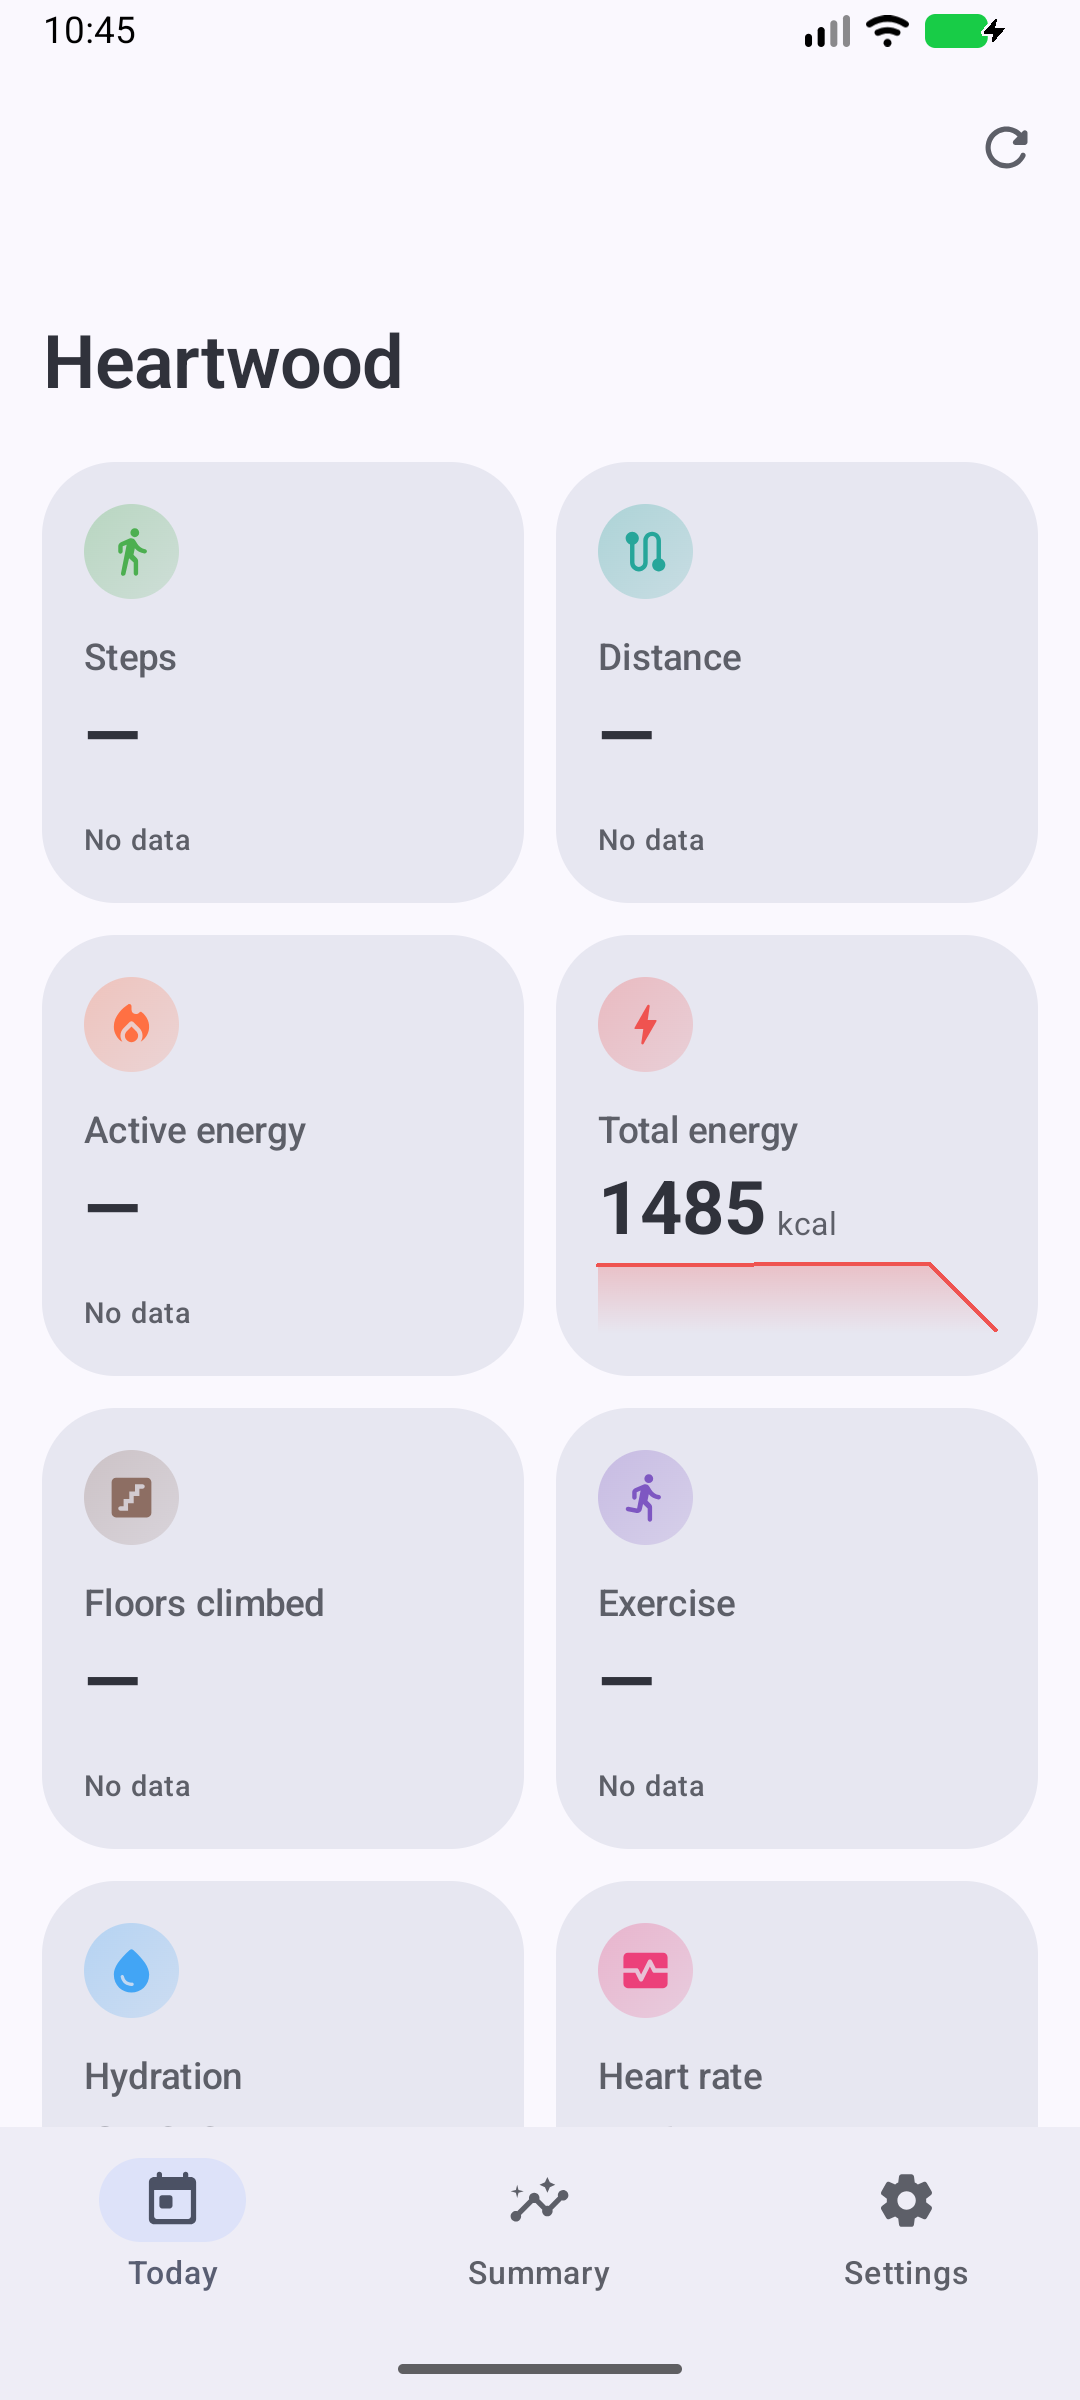
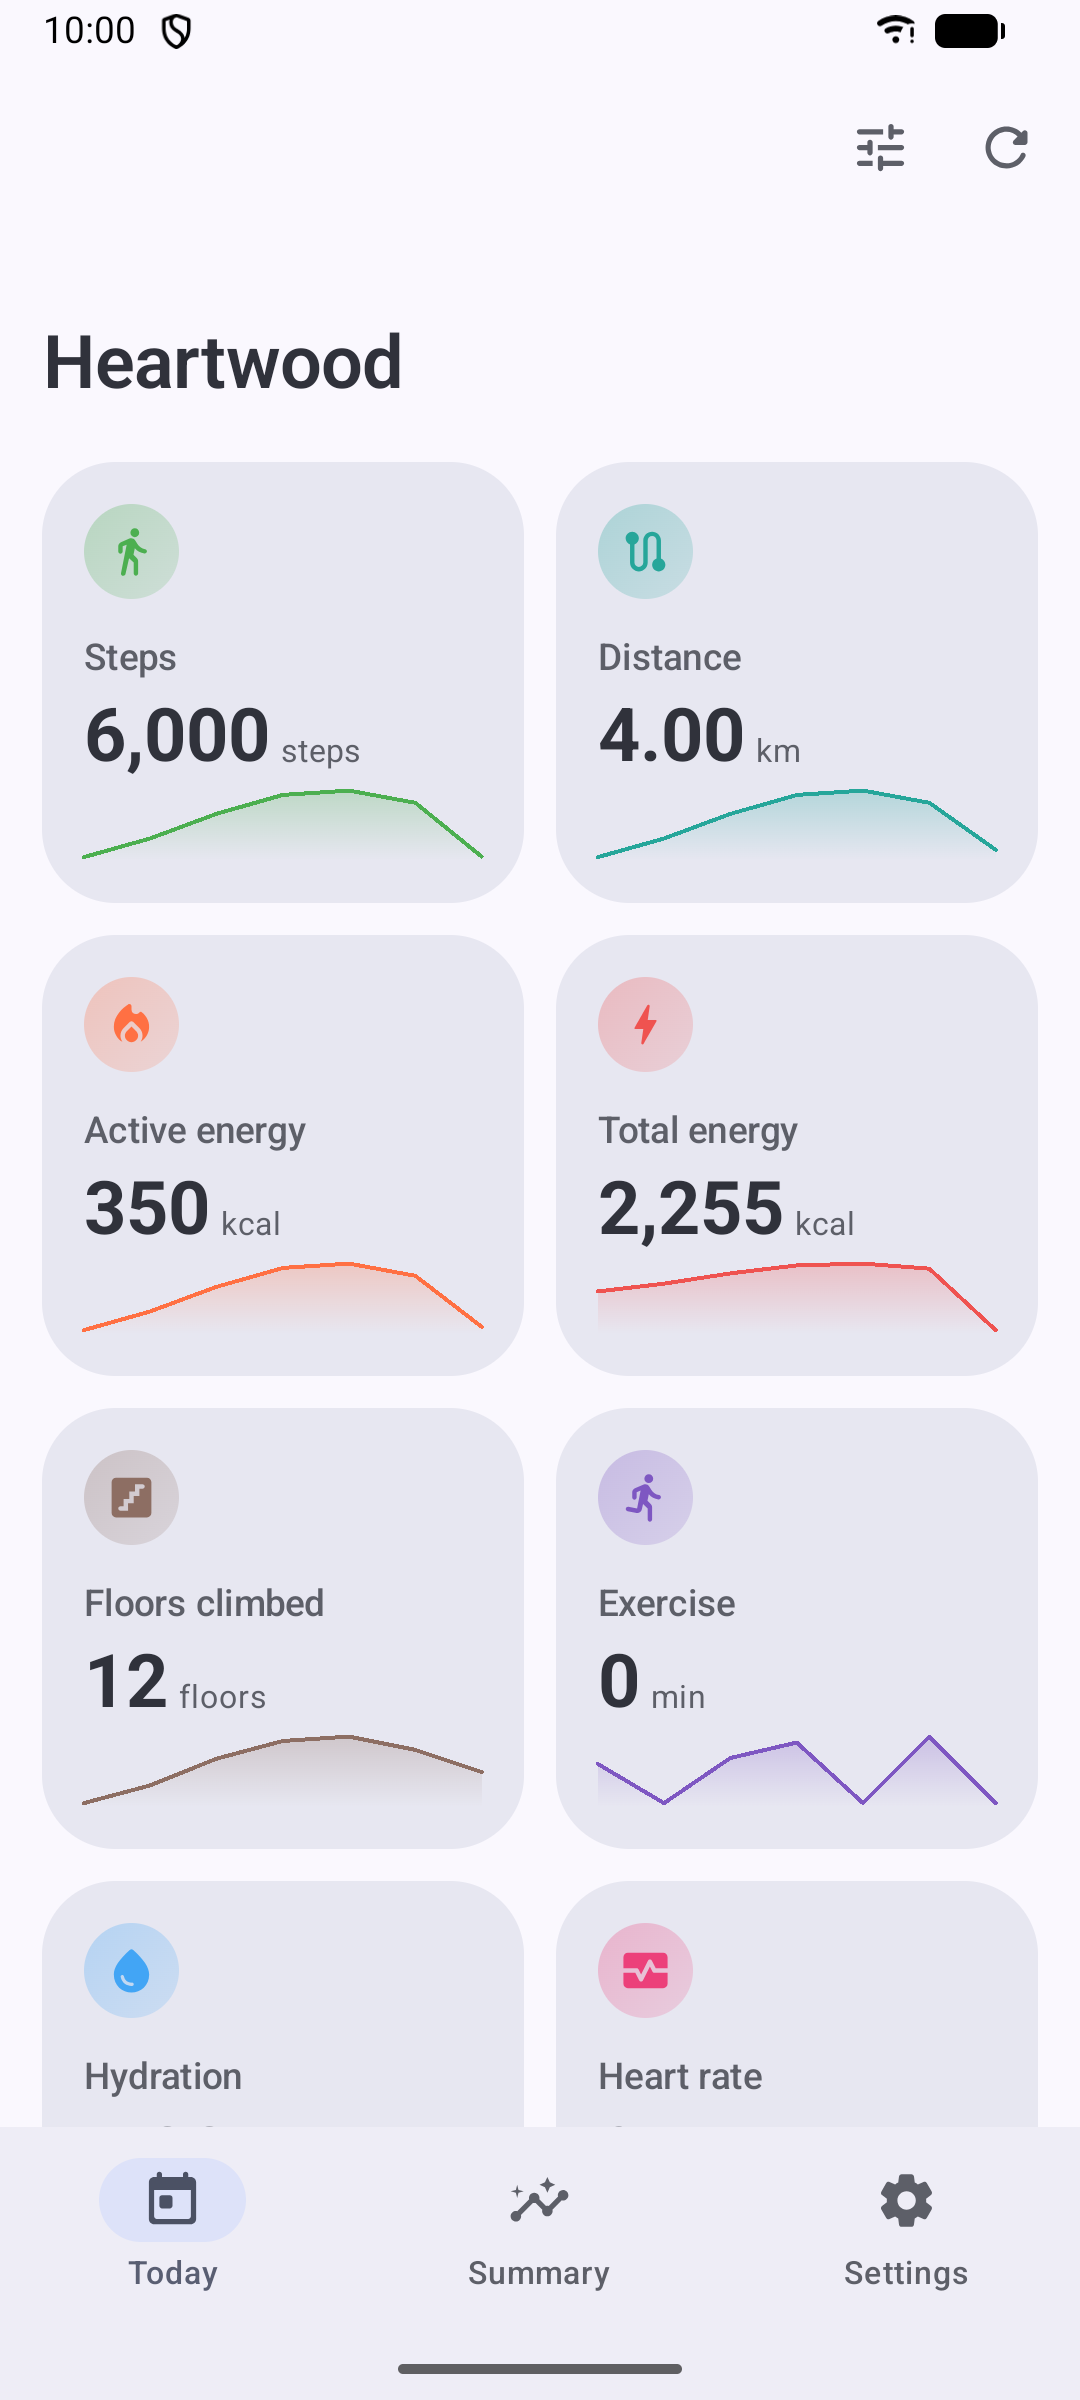
docs: refresh README and store screenshots
Show the app up top: badges, a screenshot strip and a second row
further down. The old store screenshots were mostly "No data" cards;
the new ones come from a debug build seeded with every metric (light
and dark Today, heart rate, sleep, summary with goal lines, customize).

Adds a "Why Heartwood" note on Google Fit's retirement, install via
releases/Obtainium, sample-data instructions, and mentions card
reorder/hide and goal lines in the README and store description.

diff --git a/README.md b/README.md
@@ -1,5 +1,10 @@
 # Heartwood
 
+[![CI](https://github.com/GuyOnWifi/heartwood/actions/workflows/ci.yml/badge.svg)](https://github.com/GuyOnWifi/heartwood/actions/workflows/ci.yml)
+[![Latest release](https://img.shields.io/github/v/release/GuyOnWifi/heartwood)](https://github.com/GuyOnWifi/heartwood/releases/latest)
+[![License: GPL-3.0-or-later](https://img.shields.io/github/license/GuyOnWifi/heartwood)](LICENSE)
+![minSdk 30](https://img.shields.io/badge/minSdk-30-3DDC84?logo=android&logoColor=white)
+
 A private, **read-only** [Health Connect](https://developer.android.com/health-connect)
 viewer for Android, built with Jetpack Compose and Material You. Heartwood shows the health
 and fitness data already on your device, beautifully, and without sending a single byte
@@ -7,15 +12,50 @@ anywhere.
 
 > No accounts. No network permission. No trackers. Just your data, on your device.
 
+<p align="center">
+  <img src="fastlane/metadata/android/en-US/images/phoneScreenshots/1.png" width="24%" alt="Today dashboard" />
+  <img src="fastlane/metadata/android/en-US/images/phoneScreenshots/2.png" width="24%" alt="Heart rate detail" />
+  <img src="fastlane/metadata/android/en-US/images/phoneScreenshots/3.png" width="24%" alt="Weekly summary with goal lines" />
+  <img src="fastlane/metadata/android/en-US/images/phoneScreenshots/6.png" width="24%" alt="Today dashboard in dark theme" />
+</p>
+
+## Why Heartwood
+
+Health Connect is where Android keeps health data from your phone, watch, scale and apps, but
+Android gives you very little way to actually *look* at it. With Google Fit
+[being retired](https://9to5google.com/2026/05/07/google-fit-shut-down-health-replacement-migration-tool-coming/)
+in favour of the cloud-backed Google Health app, Heartwood is an offline alternative: let
+Gadgetbridge, your watch's app or Android's built-in step counter write to Health Connect, and
+read it all here.
+
 ## Features
 
 - **Today**, Material You cards for steps, heart rate, sleep, energy, distance, exercise,
-  SpO₂, weight, blood pressure and more, each with a sparkline.
+  SpO₂, weight, blood pressure and more, each with a sparkline. Reorder or hide cards to keep
+  only what you track.
 - **Detail views**, full charts, statistics and recent records per metric.
-- **Weekly summary**, daily averages vs. goals you set, with progress rings and
+- **Weekly summary**, daily averages vs. goals you set, with progress rings, goal lines and
   week-over-week trends.
 - **Home-screen widgets**, key metrics, dynamically themed (Glance + Material 3).
 - **Export**, save your accessible data to CSV or JSON via the system file picker.
+- **Private by design**, read-only Health Connect permissions and no network permission at
+  all, so it *can't* send your data anywhere.
+
+<p align="center">
+  <img src="fastlane/metadata/android/en-US/images/phoneScreenshots/4.png" width="24%" alt="Sleep detail" />
+  <img src="fastlane/metadata/android/en-US/images/phoneScreenshots/5.png" width="24%" alt="Customize dashboard" />
+  <img src="fastlane/metadata/android/en-US/images/phoneScreenshots/7.png" width="24%" alt="Home-screen widget" />
+</p>
+
+## Install
+
+Grab the APK from the [latest release](https://github.com/GuyOnWifi/heartwood/releases/latest),
+or add `https://github.com/GuyOnWifi/heartwood` to [Obtainium](https://github.com/ImranR98/Obtainium)
+to get updates straight from GitHub releases.
+
+Requires Android 11+ and Health Connect, which is built into Android 14+ and available as
+[an app](https://play.google.com/store/apps/details?id=com.google.android.apps.healthdata) on
+Android 11–13.
 
 ## Tech
 
@@ -44,6 +84,18 @@ nix develop
 Requires JDK 17 and the Android SDK (`platforms;android-36`, `build-tools;36.0.0`). The
 Gradle wrapper pins everything else. See [docs/REPRODUCIBLE.md](docs/REPRODUCIBLE.md) for the
 full reproducible-build toolchain and Nix notes.
+
+### Sample data
+
+Debug builds include a seeder that fills Health Connect with two weeks of realistic data for
+every metric, handy for development and screenshots:
+
+```sh
+adb shell am start -n dev.easonhuang.heartwood.debug/dev.easonhuang.heartwood.debug.SeedActivity
+```
+
+Grant its write permissions first (Health Connect settings → App permissions → Heartwood), or
+on Android 14+ with `adb shell pm grant dev.easonhuang.heartwood.debug android.permission.health.WRITE_…`.
 
 ### Signing a release (optional)
 
